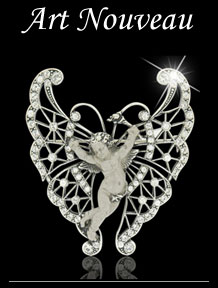
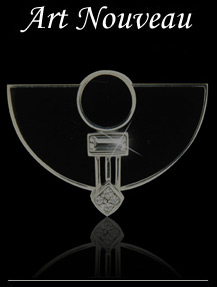
changed frontpage images art-nouveau and art deco

diff --git a/public/css/styles.css b/public/css/styles.css
@@ -446,7 +446,9 @@ div.image-right{
 	border: 1px solid #9ea19a;
     float: right;
     margin-left: 10px;
-    padding: 5px 49px;
+    /*padding: 5px 49px;*/
+    width: 232px;
+	text-align: center;
 }
 
 /*********************** HISTORY PAGE *********************/
@@ -493,10 +495,17 @@ div.language-dutch p {
     line-height: 1.4em;
 }
 div.image-history img{
-	border: 1px solid;
+	/*border: 1px solid;
     float: right;
 	padding: 5px;
-	margin-left: 10px;
+	margin-left: 10px;*/
+}
+div.image-history{
+	border: 1px solid #9EA19A;
+    float: right;
+    margin-left: 10px;
+    text-align: center;
+    width: 232px;
 }
 
 /*********************** VACANCIES PAGE *********************/
@@ -510,7 +519,8 @@ div.image-right-vacancies{
 	border: 1px solid #9ea19a;
     float: right;
     margin-left: 10px;
-	padding: 5px 10px;
+	width: 232px;
+	text-align: center;
 }
 ul.vacancies-address{
 	list-style-type: none;
@@ -531,7 +541,8 @@ div.image-contact{
 	border: 1px solid #9ea19a;
     float: right;
     margin-left: 10px;
-	padding: 5px 18px;
+	width: 232px;
+	text-align: center;
 }
 div.contact-form{
 	margin-bottom: 25px;
